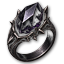
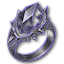
art: H 链 v2 暗色提亮/项链放大/钢与黑檀手镯改造型

diff --git a/docs/ui-preview/build_h_chain.py b/docs/ui-preview/build_h_chain.py
@@ -15,24 +15,40 @@ def segs(st,n):
             i=j
         else:i+=1
     assert len(r)==n,r;return r
-def fit(im,S,pad):
+# v2：项链只保留下部（裁掉过长链条）使吊坠与 eq_* 项链同占比；暗色图标提亮+轮廓高光
+NECK_KEEP=0.62
+DARK={'h_black_crystal_necklace':(170,120,255),'h_black_crystal_ring':(150,140,255),'h_ebony_necklace':(225,150,80),'h_ebony_bracelet':(230,160,90),'h_death_glove':(190,100,255)}
+def brighten(im,rim,S):
+    a=np.asarray(im).astype(float);rgb=255*(a[...,:3]/255)**0.62;al=a[...,3]
+    m=Image.fromarray(al.astype('uint8'));w=max(1,S//64)
+    er=np.asarray(m.filter(ImageFilter.MinFilter(2*w+1))).astype(float)
+    edge=np.clip(al-er,0,255)/255*0.85
+    sh=np.zeros_like(al);sh[w:,w:]=edge[:-w,:-w]   # 偏左上的边：用原 edge 减右下偏移，近似光从左上
+    e=np.clip(edge-0.5*sh,0,1)[...,None]
+    rgb=rgb*(1-e)+np.array(rim)*e
+    return Image.fromarray(np.dstack([np.clip(rgb,0,255),al]).astype('uint8'),'RGBA')
+def fit(im,S,pad,name=''):
     im=im.crop(im.getchannel('A').point(lambda v:255 if v>80 else 0).getbbox())
+    if 'necklace' in name or name=='h_phoenix_pearl': im=im.crop((0,int(im.height*(1-NECK_KEEP)),im.width,im.height)); im=im.crop(im.getchannel('A').point(lambda v:255 if v>80 else 0).getbbox())
     k=(S-2*pad)/max(im.size);im=im.resize((max(1,round(im.width*k)),max(1,round(im.height*k))),Image.LANCZOS)
     rgb=ImageEnhance.Sharpness(ImageEnhance.Contrast(im.convert('RGB')).enhance(1.1)).enhance(1.6 if S==64 else 1.2);im=Image.merge('RGBA',(*rgb.split(),im.getchannel('A')))
     c=Image.new('RGBA',(S,S));c.paste(im,((S-im.width)//2,(S-im.height)//2),im)
     a=c.getchannel('A').filter(ImageFilter.GaussianBlur(S/48)).point(lambda v:int(v*0.75));sh=Image.new('RGBA',c.size,(0,0,0,0));sh.putalpha(a)
+    if name in DARK:c=brighten(c,DARK[name],S)
     o=Image.new('RGBA',c.size);o.alpha_composite(sh,(S//64,S//64));o.alpha_composite(c);return o
 JOBS={'h_neck1':['h_gold_necklace','h_black_crystal_necklace','h_ebony_necklace','h_yellow_crystal_necklace'],
  'h_neck2':['h_devil_necklace','h_amber_necklace','h_phoenix_pearl','h_blue_jade_necklace'],
- 'h_br1':['h_leather_glove','h_steel_bracelet','h_big_bracelet','h_magic_bracelet'],
- 'h_br2':['h_sturdy_glove','h_ebony_bracelet','h_tao_bracelet','h_power_bracelet'],
+ 'h_br1':['h_leather_glove',None,'h_big_bracelet','h_magic_bracelet'],
+ 'h_br2':['h_sturdy_glove',None,'h_tao_bracelet','h_power_bracelet'],
  'h_br3':['h_death_glove','h_gold_bracelet'],
  'h_ring1':['h_hex_ring','h_glass_ring','h_horn_ring','h_blue_crystal_ring'],
  'h_ring2':['h_black_crystal_ring','h_snake_eye_ring','h_pearl_ring'],
+ 'h_br_v2':['h_steel_bracelet','h_ebony_bracelet'],
  'h_boots':['h_cloth_shoes','h_deer_boots','h_silk_boots','h_soul_boots']}
 for src,names in JOBS.items():
     st=key(Image.open(f'src/{src}_src.jpg'))
     for (x0,x1),n in zip(segs(st,len(names)),names):
+        if n is None:continue
         cr=st.crop((max(0,x0-30),0,min(st.width,x1+30),st.height))
-        fit(cr,64,2).save(f'{OUT}/{n}.png',optimize=True);fit(cr,128,4).save(f'{OUT}/{n}@2x.png',optimize=True)
+        fit(cr,64,2,n).save(f'{OUT}/{n}.png',optimize=True);fit(cr,128,4,n).save(f'{OUT}/{n}@2x.png',optimize=True)
         print(n,os.path.getsize(f'{OUT}/{n}.png'),os.path.getsize(f'{OUT}/{n}@2x.png'))

diff --git a/docs/art-requests.md b/docs/art-requests.md
@@ -1852,4 +1852,5 @@ public/assets/ui/UI-Tooltip-Border.png
 - 戒指：h_hex_ring 六角戒指 / h_glass_ring 玻璃戒指 / h_horn_ring 牛角戒指 / h_blue_crystal_ring 蓝色水晶戒指 / h_black_crystal_ring 黑色水晶戒指 / h_snake_eye_ring 蛇眼戒指 / h_pearl_ring 珍珠戒指
 - 靴子：h_cloth_shoes 布鞋 / h_deer_boots 鹿皮靴 / h_silk_boots 紫绸靴 / h_soul_boots 避魂靴
 
-脚本 `docs/ui-preview/build_h_chain.py`、`compose_h_chain.py`；源图 `docs/ui-preview/src/h_*_src.jpg`；预览 `docs/ui-preview/preview_h_chain_icons.jpg`。待系统开发把对应物品 icon 从 gen_necklace/gen_bracelet/eq_iron_ring/gen_boots 换为上述文件。
+脚本 `docs/ui-preview/build_h_chain.py`、`compose_h_chain.py`；源图 `docs/ui-preview/src/h_*_src.jpg`；预览 `docs/ui-preview/preview_h_chain_icons.jpg`。**v2（主Bot 审后修正）**：①暗色提亮+左上轮廓高光：h_black_crystal_necklace/h_black_crystal_ring（紫青）、h_ebony_necklace/h_ebony_bracelet（暖棕）、h_death_glove（紫）；②8 条项链裁短链条放大吊坠，占比对齐 eq_* 项链；③h_steel_bracelet 改为带铰链锁扣铆钉的扁平宽钢箍，h_ebony_bracelet 改为雕纹粗圆木镯（源图 src/h_br_v2_src.jpg）。64 与 @2x 同步重出，预览底部加修正前后对比。
+待系统开发把对应物品 icon 从 gen_necklace/gen_bracelet/eq_iron_ring/gen_boots 换为上述文件。
